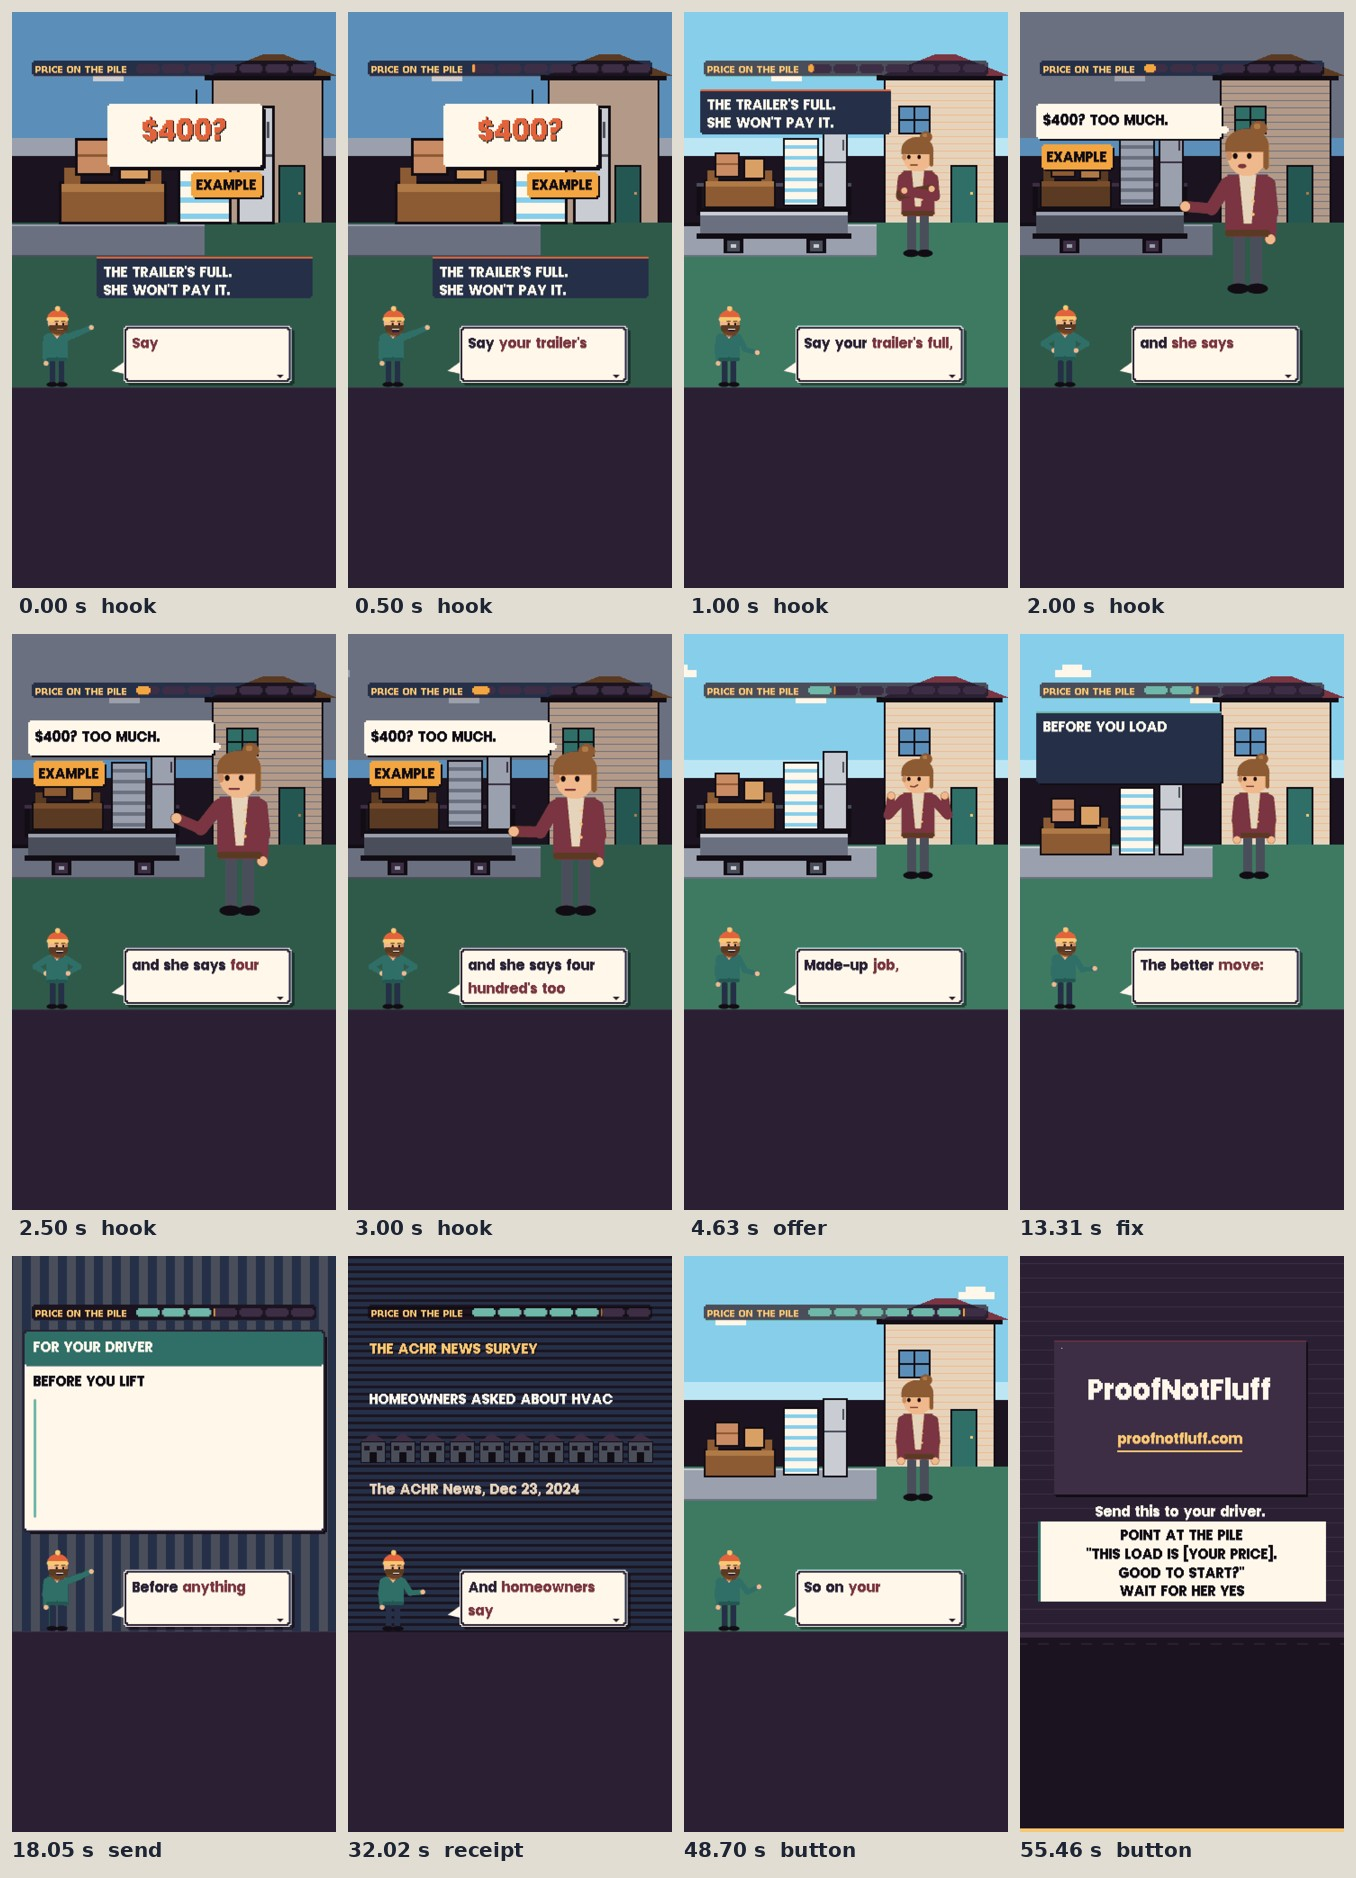
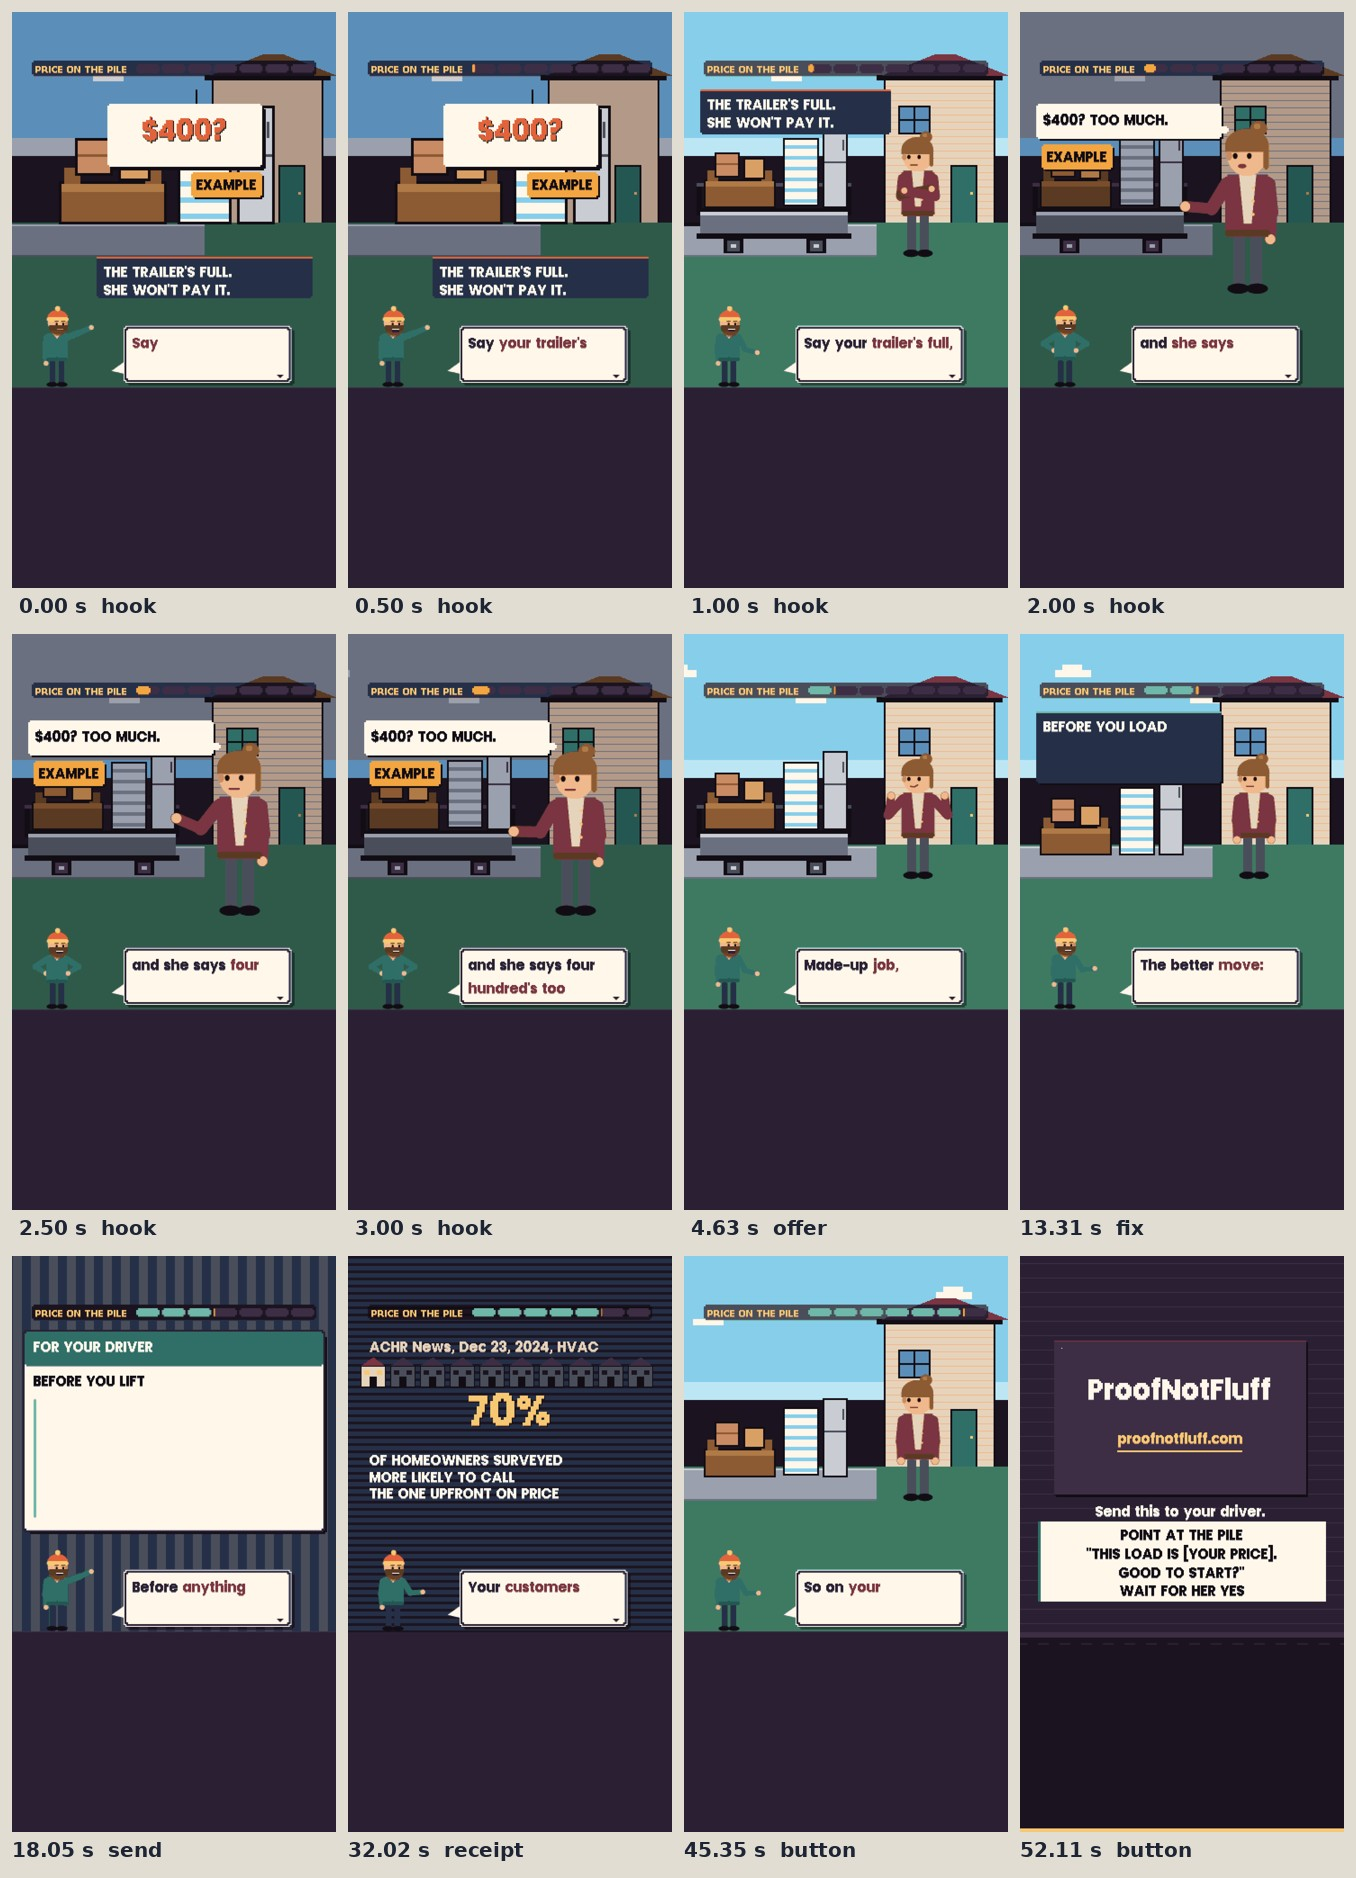
studio: price-on-the-pile fix round 2 (take 5 shorter, bridge first; the survey beat: 70% from its first frame, houses light to seventy); permit tags merge
Claude-Session: https://claude.ai/code/session_01XMn4eGCuTkqf6oHmaHm8Hx

Changed region(s): [[0.2478, 0.7103, 0.4956, 0.803], [0.3407, 0.8339, 0.4336, 0.8647], [0.6814, 0.6794, 0.7434, 0.7103]]

diff --git a/video/studio/videos/2026-11-29-price-on-the-pile/03_cues/cues.js b/video/studio/videos/2026-11-29-price-on-the-pile/03_cues/cues.js
@@ -1,1 +1,1 @@
-window.CUES = {"schema": "pnf.studio.cues.v1", "source": "whisper medium.en int8, re-spelled from script.md", "music": {"id": "rooms", "level": 0.16, "tune": "bounce"}, "duration": 55.758, "cues": [{"id": "hook", "level": 0, "quote": "Say your trailer's full,", "sfx": "pop", "shift": 0.0, "pin": null, "text": "Cover, frame one: the junk pile up close (a couch, a mattress, boxes, a fridge) with a price tag hung on it: $400?, EXAMPLE beside it; under it a banner: THE TRAILER'S FULL. / SHE WON'T PAY IT. At 0.9 s a plain cut to the driveway (the cover's two lines stay up on a banner until \"four\"): a house, a trailer heaped with junk (a couch, a mattress, boxes, a fridge), the homeowner (k.client, cross, arms folded) on the drive. On \"four\" a plain cut in to her, closer: her bubble: $400? TOO MUCH. with an EXAMPLE tag beside it.", "t": 0.0, "word": 0, "end": 4.029}, {"id": "offer", "level": 0, "quote": "Made-up job, but you've", "sfx": "blip", "shift": 0.0, "pin": null, "text": "The same driveway, closer: the full trailer, the homeowner (argue). On \"give\" her bubble: I'LL GIVE YOU $200. with an EXAMPLE tag. On \"dump\" a stamp on a plate: DUMP IT BACK?", "t": 4.029, "word": 11, "end": 12.708}, {"id": "fix", "level": 0, "quote": "The better move:", "sfx": "whoosh", "shift": 0.0, "pin": null, "text": "A plain cut to the same drive before the job: the pile still on the drive, nothing loaded yet, the homeowner calm. A plate left of the house reads BEFORE YOU LOAD from the cut (the rewind said on screen); on \"say\": SAY THE PRICE, then AT THE PILE.", "t": 12.708, "word": 37, "end": 17.448}, {"id": "send", "level": 0, "quote": "Before anything gets", "sfx": "blip", "shift": 0.0, "pin": null, "text": "The send card on a plain cut, built line by line as each line is spoken: FOR YOUR DRIVER (the band) / BEFORE YOU LIFT (the title) from the cut; POINT AT THE PILE on \"point\"; \"THIS LOAD IS [YOUR PRICE]. on \"This\"; GOOD TO START?\" on \"Good\"; WAIT FOR HER YES on \"wait\". Full, it holds still about 3 s (through \"A yes before the work\"); only the stripes behind it drift. No EXAMPLE tag on the card (no made-up number on it).", "send": true, "t": 17.448, "word": 51, "end": 26.959}, {"id": "why", "level": 0, "quote": "is a deal.", "sfx": "stamp", "shift": 0.0, "pin": null, "text": "On \"is\" a plain cut to two rows: top, teal: UP FRONT / A YES = A DEAL; bottom, red, on \"price\": AFTER THE WORK, then A PRICE = A FIGHT. The bottom row shakes once on \"fight\".", "t": 26.959, "word": 79, "end": 31.425}, {"id": "receipt", "level": 0, "quote": "And homeowners say they", "sfx": "blip", "shift": 0.0, "pin": null, "text": "A plain cut to the survey: THE ACHR NEWS SURVEY / HOMEOWNERS ASKED ABOUT HVAC over a row of ten houses, dark; the tag The ACHR News, Dec 23, 2024 under them the whole time. On \"Seventy\" 70% (data.js) lands and seven of the ten houses light up one by one; the lines read MORE LIKELY TO CALL / THE ONE UPFRONT ON PRICE.", "t": 31.425, "word": 90, "end": 48.098}, {"id": "button", "level": 0, "quote": "So on your next", "sfx": "chime", "shift": 0.0, "pin": null, "text": "The driveway again, before the job: the pile on the drive, nothing loaded yet, the homeowner calm. The stamp on \"does\", up top: WHERE DOES YOUR PRICE GO? Then two cards under it: ON THE PILE on \"pile\", ON THE TRAILER on \"trailer\". Holds to the end card.", "t": 48.098, "word": 132, "end": 55.758}]};
+window.CUES = {"schema": "pnf.studio.cues.v1", "source": "whisper medium.en int8, re-spelled from script.md", "music": {"id": "rooms", "level": 0.16, "tune": "bounce"}, "duration": 52.414, "cues": [{"id": "hook", "level": 0, "quote": "Say your trailer's full,", "sfx": "pop", "shift": 0.0, "pin": null, "text": "Cover, frame one: the junk pile up close (a couch, a mattress, boxes, a fridge) with a price tag hung on it: $400?, EXAMPLE beside it; under it a banner: THE TRAILER'S FULL. / SHE WON'T PAY IT. At 0.9 s a plain cut to the driveway (the cover's two lines stay up on a banner until \"four\"): a house, a trailer heaped with junk (a couch, a mattress, boxes, a fridge), the homeowner (k.client, cross, arms folded) on the drive. On \"four\" a plain cut in to her, closer: her bubble: $400? TOO MUCH. with an EXAMPLE tag beside it.", "t": 0.0, "word": 0, "end": 4.029}, {"id": "offer", "level": 0, "quote": "Made-up job, but you've", "sfx": "blip", "shift": 0.0, "pin": null, "text": "The same driveway, closer: the full trailer, the homeowner (argue). On \"give\" her bubble: I'LL GIVE YOU $200. with an EXAMPLE tag. On \"dump\" a stamp on a plate: DUMP IT BACK?", "t": 4.029, "word": 11, "end": 12.708}, {"id": "fix", "level": 0, "quote": "The better move:", "sfx": "whoosh", "shift": 0.0, "pin": null, "text": "A plain cut to the same drive before the job: the pile still on the drive, nothing loaded yet, the homeowner calm. A plate left of the house reads BEFORE YOU LOAD from the cut (the rewind said on screen); on \"say\": SAY THE PRICE, then AT THE PILE.", "t": 12.708, "word": 37, "end": 17.448}, {"id": "send", "level": 0, "quote": "Before anything gets", "sfx": "blip", "shift": 0.0, "pin": null, "text": "The send card on a plain cut, built line by line as each line is spoken: FOR YOUR DRIVER (the band) / BEFORE YOU LIFT (the title) from the cut; POINT AT THE PILE on \"point\"; \"THIS LOAD IS [YOUR PRICE]. on \"This\"; GOOD TO START?\" on \"Good\"; WAIT FOR HER YES on \"wait\". Full, it holds still about 3 s (through \"A yes before the work\"); only the stripes behind it drift. No EXAMPLE tag on the card (no made-up number on it).", "send": true, "t": 17.448, "word": 51, "end": 26.959}, {"id": "why", "level": 0, "quote": "is a deal.", "sfx": "stamp", "shift": 0.0, "pin": null, "text": "On \"is\" a plain cut to two rows: top, teal: UP FRONT / A YES = A DEAL; bottom, red, on \"price\": AFTER THE WORK, then A PRICE = A FIGHT. The bottom row shakes once on \"fight\".", "t": 26.959, "word": 79, "end": 31.425}, {"id": "receipt", "level": 0, "quote": "Your customers are homeowners,", "sfx": "blip", "shift": 0.0, "pin": null, "text": "A plain cut to the survey: 70% (data.js) big from the first frame, OF HOMEOWNERS SURVEYED / MORE LIKELY TO CALL / THE ONE UPFRONT ON PRICE under it, a row of ten houses that light one by one, the seventh on \"seventy\"; the tag The ACHR News, Dec 23, 2024 (HVAC) the whole time.", "t": 31.425, "word": 90, "end": 44.754}, {"id": "button", "level": 0, "quote": "So on your next", "sfx": "chime", "shift": 0.0, "pin": null, "text": "The driveway again, before the job: the pile on the drive, nothing loaded yet, the homeowner calm. The stamp on \"does\", up top: WHERE DOES YOUR PRICE GO? Then two cards under it: ON THE PILE on \"pile\", ON THE TRAILER on \"trailer\". Holds to the end card.", "t": 44.754, "word": 123, "end": 52.414}]};

diff --git a/video/studio/videos/2026-11-29-price-on-the-pile/02_transcript/mouth.js b/video/studio/videos/2026-11-29-price-on-the-pile/02_transcript/mouth.js
@@ -1,1 +1,1 @@
[2 lines of base64/hex data omitted]

diff --git a/video/studio/videos/2026-11-29-price-on-the-pile/04_scene/scene.js b/video/studio/videos/2026-11-29-price-on-the-pile/04_scene/scene.js
@@ -187,21 +187,19 @@ window.SCENE = {
       const lit = Math.round(Number(n.value != null ? n.value : parseFloat(n.shown)) / 10);
       k.cut(t0);
       P(0, 0, 360, 417, '#253048'); for (let y = (d.F >> 2) % 8 - 8; y < 417; y += 8) P(0, Math.max(0, y), 360, 3, NIGHT);
-      if (T < tSev) {
-        k.text('THE ACHR NEWS SURVEY', 72, 276, {size: 66, color: GOLD, drop: INK});
-        k.text('HOMEOWNERS ASKED ABOUT HVAC', 72, 444, {size: 52, color: CREAM});
-      } else {
-        k.slam(n.shown, 540, 262, tSev, {size: 150, color: GOLD, drop: INK, from: 0.3, align: 'center'});
-        k.text('MORE LIKELY TO CALL', 72, 444, {size: 52, color: CREAM});
-        k.text('THE ONE UPFRONT ON PRICE', 72, 504, {size: 52, color: CREAM});
-      }
+      /* viewer r1 and design r1: the number from the first frame of the beat, big; the houses light one by one up to */
+      /* "Seventy", the seventh on the word */
+      k.slam(n.shown, 540, 420, t0, {size: 220, color: GOLD, drop: INK, from: 0.3, align: 'center'});
+      k.text('OF HOMEOWNERS SURVEYED', 72, 648, {size: 52, color: CREAM});
+      k.text('MORE LIKELY TO CALL', 72, 704, {size: 52, color: CREAM});
+      k.text('THE ONE UPFRONT ON PRICE', 72, 760, {size: 52, color: CREAM});
       for (let i = 0; i < 10; i++) {
-        const x = 14 + i * 33, y = 196, on = T >= tSev + i * 0.08 && i < lit;
+        const x = 14 + i * 33, y = 112, on = i < lit && T >= t0 + 0.4 + (tSev + 0.3 - t0 - 0.4) * i / Math.max(1, lit - 1);
         P(x, y + 10, 28, 24, INK); P(x + 1, y + 11, 26, 22, on ? '#E6D3BC' : SLATE);
         for (let r = 0; r < 10; r++) P(x + 14 - r * 1.4, y + r, r * 2.8, 1, on ? WINE : '#3D2E45');
         P(x + 10, y + 22, 8, 12, INK); P(x + 4, y + 15, 6, 5, on ? GOLD : NIGHT); P(x + 18, y + 15, 6, 5, on ? GOLD : NIGHT);
       }
-      k.sourceTag('The ACHR News, Dec 23, 2024', 72, 744, {color: SAND});
+      k.sourceTag('ACHR News, Dec 23, 2024, HVAC', 72, 270, {color: SAND});
       return host(k, T >= tSev ? 'point' : null);
     },
 

diff --git a/video/studio/videos/2026-11-29-price-on-the-pile/03_cues/cues.md b/video/studio/videos/2026-11-29-price-on-the-pile/03_cues/cues.md
@@ -27,10 +27,10 @@ behind it drift. No EXAMPLE tag on the card (no made-up number on it).
 On "is" a plain cut to two rows: top, teal: UP FRONT / A YES = A DEAL; bottom, red, on "price": AFTER THE WORK, then A PRICE = A FIGHT.
 The bottom row shakes once on "fight".
 
-## receipt "And homeowners say they" [sfx: blip]
-A plain cut to the survey: THE ACHR NEWS SURVEY / HOMEOWNERS ASKED ABOUT HVAC over a row of ten houses, dark; the tag
-The ACHR News, Dec 23, 2024 under them the whole time. On "Seventy" 70% (data.js) lands and seven of the ten houses
-light up one by one; the lines read MORE LIKELY TO CALL / THE ONE UPFRONT ON PRICE.
+## receipt "Your customers are homeowners," [sfx: blip]
+A plain cut to the survey: 70% (data.js) big from the first frame, OF HOMEOWNERS SURVEYED / MORE LIKELY TO CALL / THE
+ONE UPFRONT ON PRICE under it, a row of ten houses that light one by one, the seventh on "seventy"; the tag ACHR News,
+Dec 23, 2024, HVAC on top the whole time, the houses under it, then 70% and the three lines.
 
 ## button "So on your next" [sfx: chime]
 The driveway again, before the job: the pile on the drive, nothing loaded yet, the homeowner calm. The stamp on "does", up top: WHERE DOES YOUR PRICE GO?
